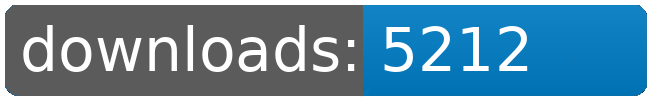
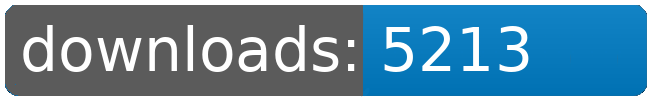
dl log written

Changed region(s): [[0.7692, 0.42, 0.8308, 0.72], [0.7692, 0.27, 0.8308, 0.39]]

diff --git a/README.md b/README.md
@@ -21,8 +21,8 @@
 		<td>5143</td>
 		<td>5175</td>
 		<td>5203</td>
-		<td>5212</td>
-		<td>+ 9</td>
+		<td>5213</td>
+		<td>+ 10</td>
 	</tr>
 	<tr>
 		<td>Factory.Outlets</td>
@@ -109,8 +109,8 @@
 		<td></td>
 		<td></td>
 		<td></td>
-		<td>41912</td>
-		<td>71</td>
+		<td>41913</td>
+		<td>72</td>
 	</tr>
 </table>
 </sub></sup>
@@ -157,8 +157,8 @@
 		<td>5143</td>
 		<td>5175</td>
 		<td>5203</td>
-		<td>5212</td>
-		<td>+ 9</td>
+		<td>5213</td>
+		<td>+ 10</td>
 	</tr>
 	<tr>
 		<td>Korunak.Defense.Drones</td>
@@ -223,8 +223,8 @@
 		<td></td>
 		<td></td>
 		<td></td>
-		<td>41912</td>
-		<td>71</td>
+		<td>41913</td>
+		<td>72</td>
 	</tr>
 </table>
 </sub></sup>
